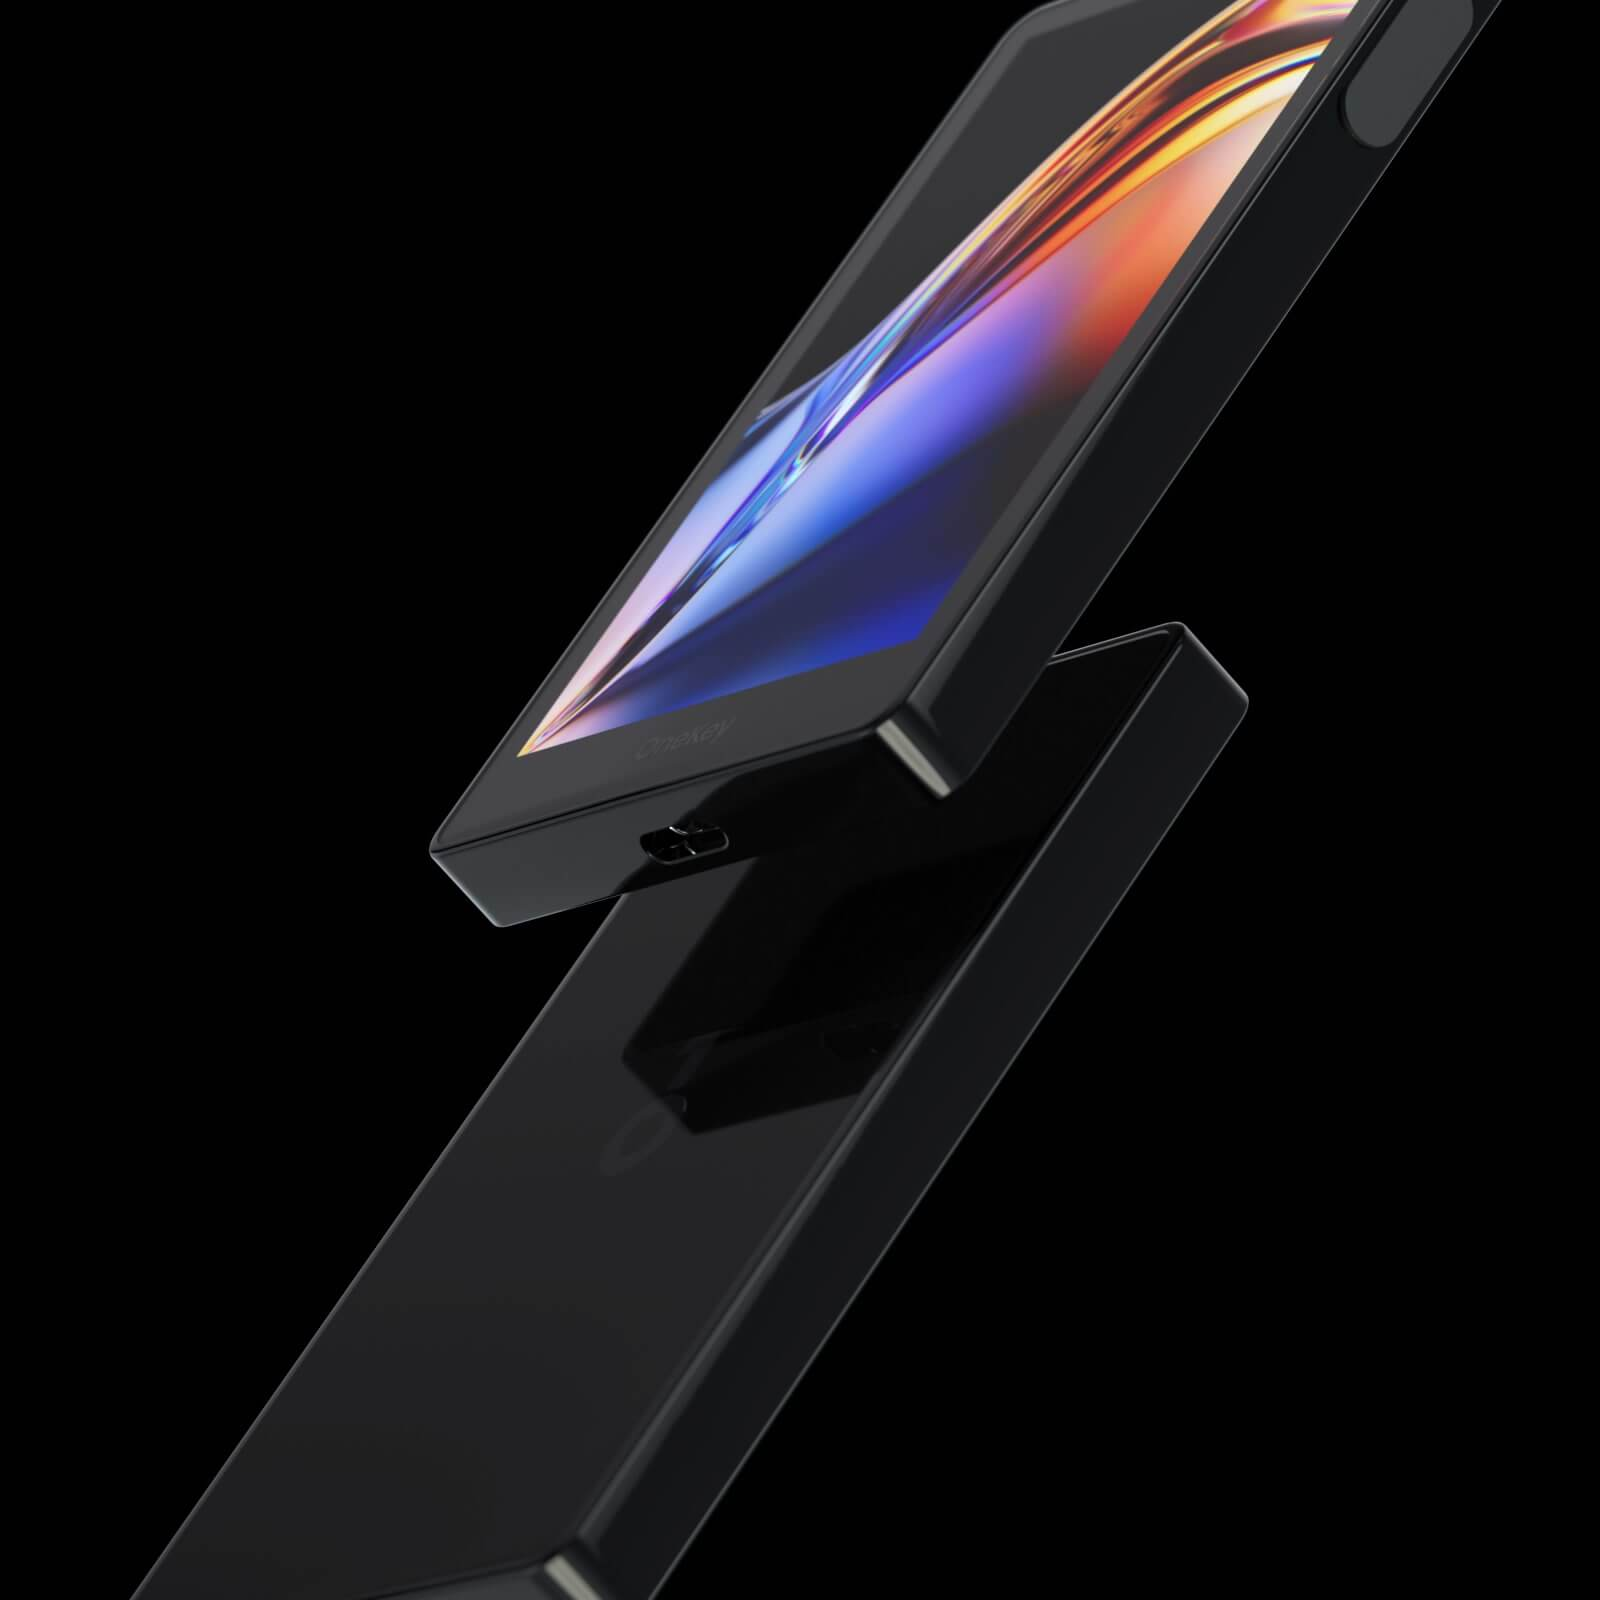
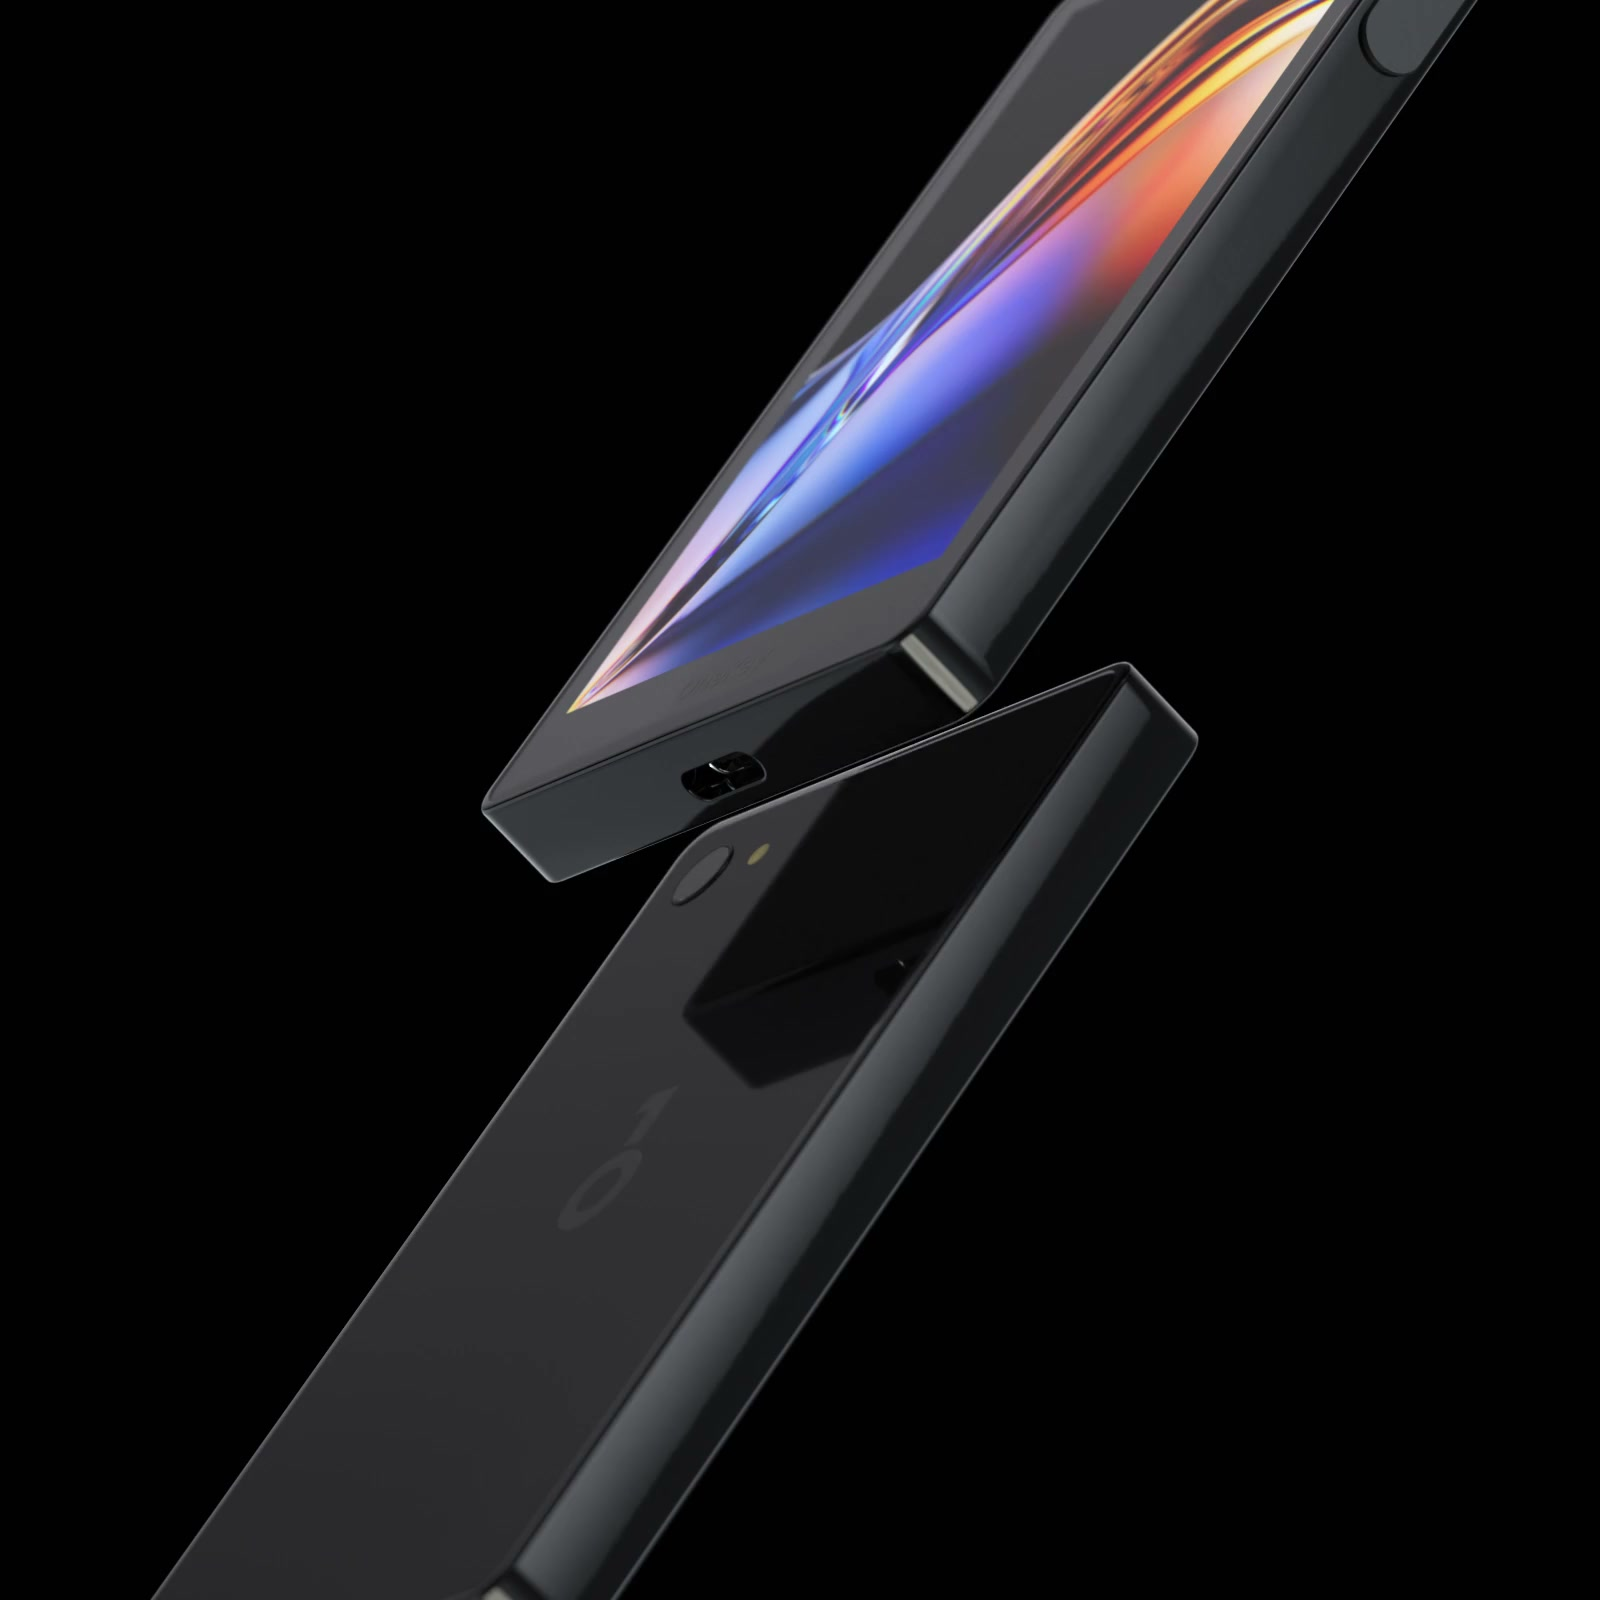
fix(ui): improve DeviceGuideView desktop layout (#9716)
* fix(ui): improve DeviceGuideView desktop layout

- Adjust video mask gradient for better text visibility
- Offset video container to show more content on right side
- Increase content maxWidth to prevent button wrapping
- Add negative margin to move content slightly upward
- Remove flexWrap to keep buttons in single row

* fix(ui): enhance DeviceGuideView and fix mobile header issue

- Add video playback rate support (0.8x) to Video component
- Add blur effect to video background on desktop
- Update poster images to match video first frames
- Fix mobile header title disappearing after theme switch
- Adjust button padding for better desktop layout

Pull request: fix(ui): improve DeviceGuideView desktop layout

Changed region(s): [[0.2188, 0.0, 0.9375, 1.0], [0.0625, 0.9062, 0.1562, 1.0], [0.1562, 0.8125, 0.2188, 0.9062]]

diff --git a/packages/kit/src/views/DeviceManagement/pages/DeviceGuideModal/DeviceGuideView.tsx b/packages/kit/src/views/DeviceManagement/pages/DeviceGuideModal/DeviceGuideView.tsx
@@ -56,7 +56,7 @@ function VideoContainer() {
 
   const maskStyle = useMemo(() => {
     const gradient = gtMd
-      ? 'linear-gradient(90deg, transparent 0%, black 70%)'
+      ? 'linear-gradient(90deg, transparent 0%, black 80%)'
       : 'linear-gradient(180deg, transparent 15%, black 70%)';
 
     return {
@@ -64,6 +64,10 @@ function VideoContainer() {
       WebkitMaskImage: gradient,
     };
   }, [gtMd]);
+
+  const handleVideoLoad = useCallback(() => {
+    setIsVideoLoaded(true);
+  }, []);
 
   return (
     <Stack
@@ -81,7 +85,7 @@ function VideoContainer() {
       bottom="20%"
       $gtMd={{
         bottom: 0,
-        left: 0,
+        left: '25%',
         top: 0,
         right: 0,
       }}
@@ -91,9 +95,11 @@ function VideoContainer() {
         position="absolute"
         width="100%"
         height="100%"
-        $platform-web={maskStyle}
+        $platform-web={{
+          ...maskStyle,
+          filter: 'blur(2px)',
+        }}
       >
-        {/* Show poster image as fallback while video is loading */}
         {!isVideoLoaded ? (
           <Image
             position="absolute"
@@ -107,6 +113,7 @@ function VideoContainer() {
           muted
           autoPlay
           repeat
+          rate={0.8}
           position="absolute"
           width="100%"
           height="100%"
@@ -114,9 +121,8 @@ function VideoContainer() {
           playInBackground={false}
           resizeMode={EVideoResizeMode.COVER}
           source={videoSource}
-          onLoad={() => setIsVideoLoaded(true)}
+          onLoad={handleVideoLoad}
         />
-        {/* Native gradient overlay - fades video to background */}
         <LinearGradient
           colors={[
             'transparent',
@@ -205,18 +211,13 @@ function ButtonContainer() {
 
   if (gtMd) {
     return (
-      <XStack
-        gap="$3"
-        flexWrap="wrap"
-        flexDirection="row"
-        justifyContent="flex-start"
-      >
+      <XStack gap="$3" flexDirection="row" justifyContent="flex-start">
         <Button
           size="medium"
           borderRadius="$full"
           variant="primary"
-          minWidth={160}
           onPress={onAddDevice}
+          px="$4"
         >
           {intl.formatMessage({
             id: ETranslations.global_connect_hardware_wallet,
@@ -231,6 +232,7 @@ function ButtonContainer() {
           bg="$neutral2"
           iconAfter="ArrowTopRightOutline"
           onPress={handleBuyButtonPress}
+          px="$4"
           $platform-web={{
             style: {
               backdropFilter: 'blur(16px)',
@@ -238,8 +240,7 @@ function ButtonContainer() {
             },
           }}
         >
-          {intl.formatMessage({ id: ETranslations.global_buy_one })}
-          OneKey
+          {intl.formatMessage({ id: ETranslations.global_buy })} OneKey
         </Button>
       </XStack>
     );
@@ -310,8 +311,9 @@ function DeviceGuideViewContent() {
           alignItems={undefined}
           $gtMd={{
             gap: '$10',
-            maxWidth: 400,
+            maxWidth: 480,
             alignItems: 'flex-start',
+            marginTop: -48,
           }}
         >
           <DescriptionInfo />

diff --git a/packages/components/src/content/Video/index.tsx b/packages/components/src/content/Video/index.tsx
@@ -1,10 +1,20 @@
+import { useEffect, useRef } from 'react';
+
 import { usePropsAndStyle } from '@onekeyhq/components/src/shared/tamagui';
 
 import type { IVideoProps } from './type';
 
 export function Video(rawProps: IVideoProps) {
-  const [{ source, repeat, resizeMode, ...props }, style] =
+  const [{ source, repeat, resizeMode, rate, ...props }, style] =
     usePropsAndStyle(rawProps);
+  const videoRef = useRef<HTMLVideoElement>(null);
+
+  useEffect(() => {
+    if (videoRef.current && rate !== undefined) {
+      videoRef.current.playbackRate = rate;
+    }
+  }, [rate]);
+
   if (resizeMode) {
     // eslint-disable-next-line @typescript-eslint/no-unsafe-member-access
     (style as any)['object-fit'] = resizeMode;
@@ -12,6 +22,7 @@ export function Video(rawProps: IVideoProps) {
   return (
     // eslint-disable-next-line jsx-a11y/media-has-caption
     <video
+      ref={videoRef}
       autoPlay
       style={style as any}
       {...(props as any)}

diff --git a/packages/kit/src/views/DeviceManagement/pages/DeviceManagementListModal/index.tsx b/packages/kit/src/views/DeviceManagement/pages/DeviceManagementListModal/index.tsx
@@ -314,9 +314,14 @@ function DeviceManagementV2ListWeb() {
         headerStyle: {
           backgroundColor: !showHeader ? 'transparent' : theme.bgApp.val,
         },
+        title: showHeader
+          ? intl.formatMessage({
+              id: ETranslations.global_device_management,
+            })
+          : '',
       });
     }
-  }, [navigation, showHeader, gtMd, theme.bgApp.val]);
+  }, [navigation, showHeader, gtMd, theme.bgApp.val, intl]);
 
   const renderHeader = () => {
     // Desktop: always show header